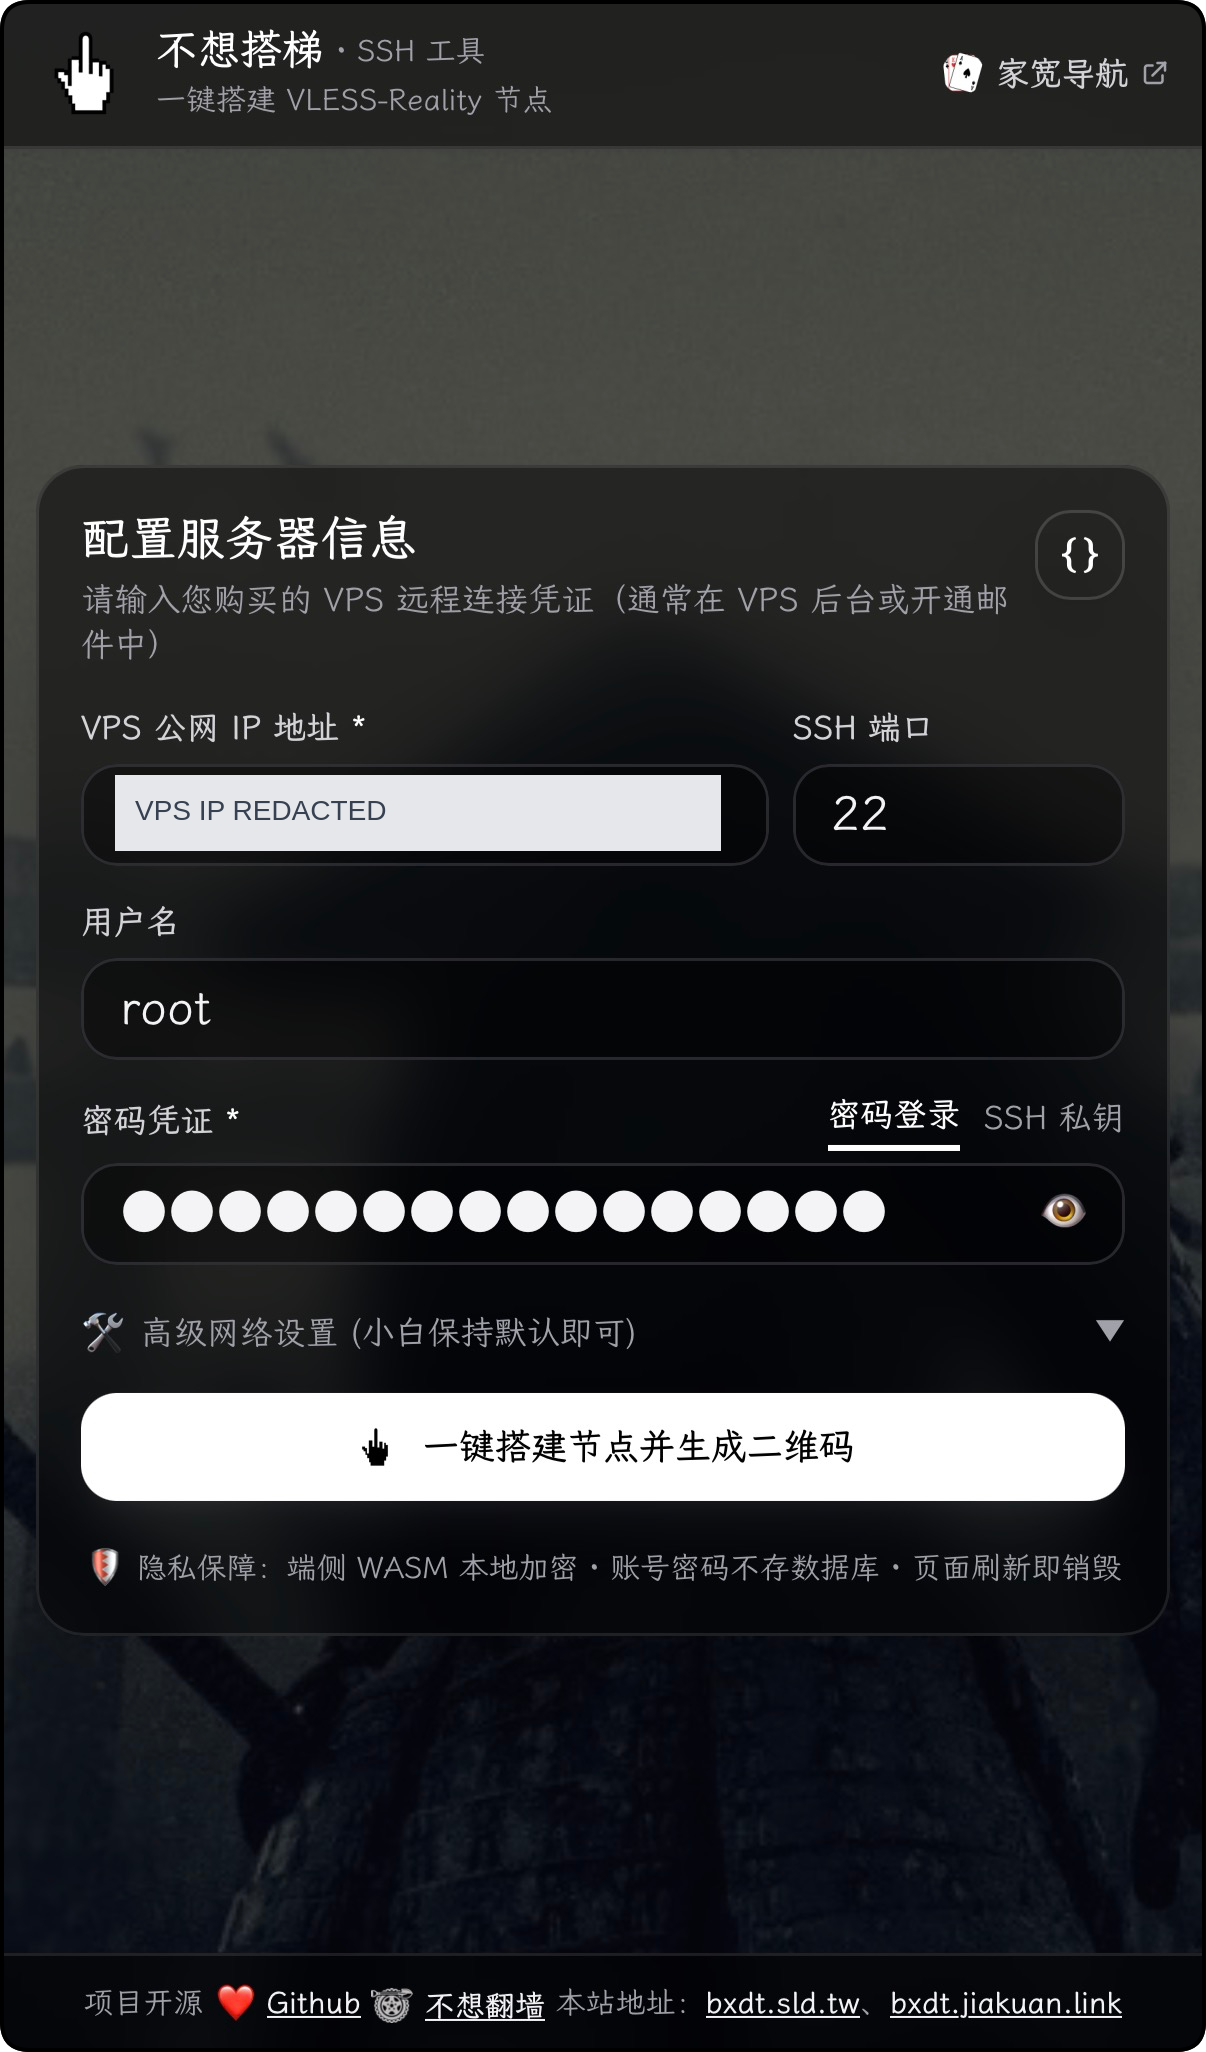
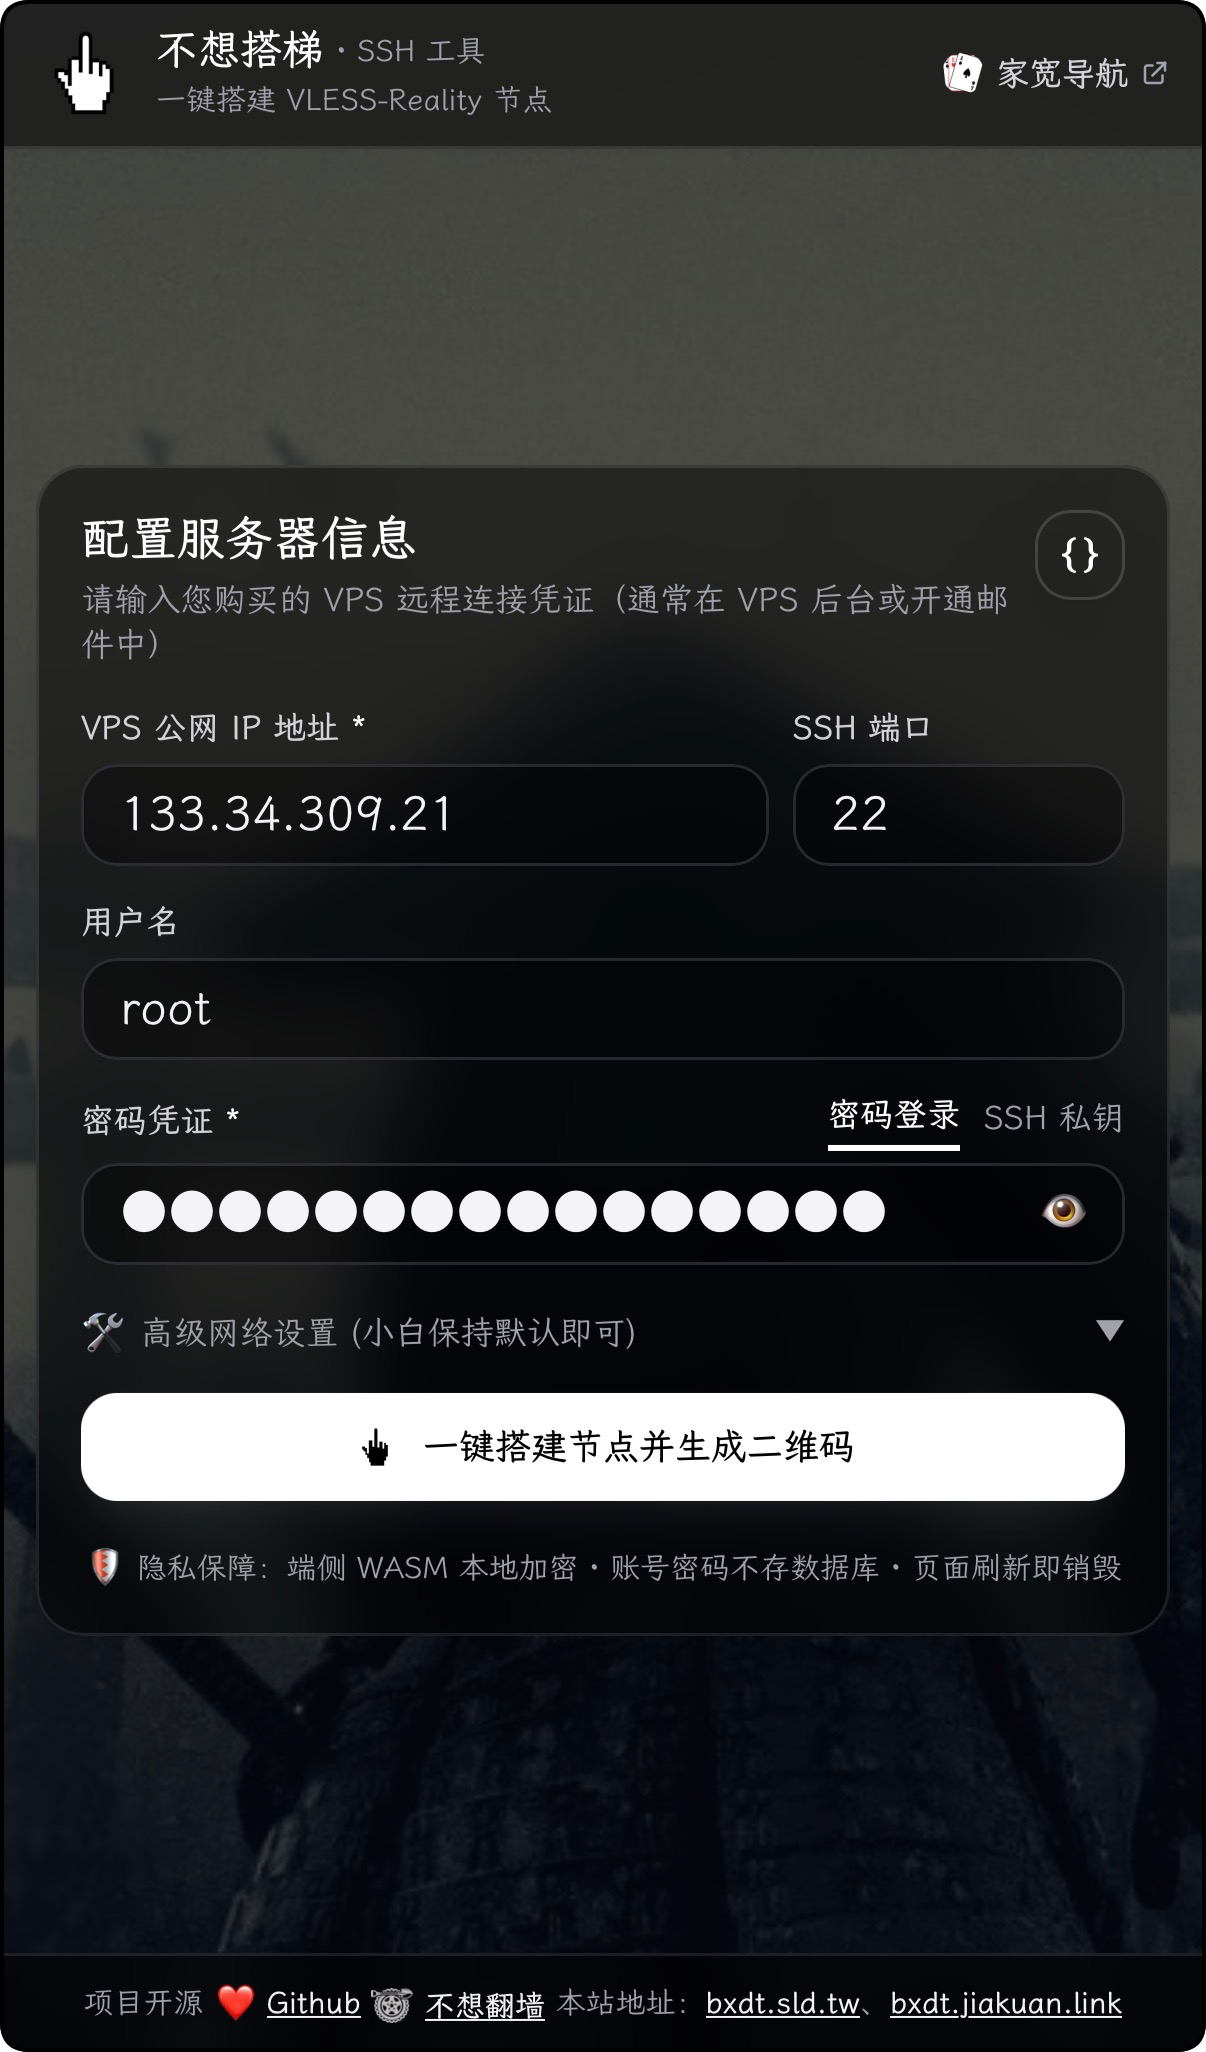
fix: 精简教程版本展示并补充 NAT VPS 配置说明

Changed region(s): [[0.092, 0.3743, 0.6136, 0.4366]]

diff --git a/src/components/TutorialDetailView.tsx b/src/components/TutorialDetailView.tsx
@@ -172,6 +172,8 @@ export const TutorialDetailView: React.FC<TutorialDetailViewProps> = ({
   onOpenCrowdsourceModal
 }) => {
   const [copiedSnippet, setCopiedSnippet] = useState<string | null>(null);
+  // 版本字段可包含渠道、核查日期等备注，页头仅展示首个版本号。
+  const displayVersion = tool.latestVersion.match(/\b[vV]?\d+(?:\.\d+)+(?:-[0-9A-Za-z]+(?:[.-][0-9A-Za-z]+)*)?(?:\+[0-9A-Za-z]+(?:[.-][0-9A-Za-z]+)*)?\b/)?.[0];
 
   const handleCopy = (text: string) => {
     navigator.clipboard.writeText(text);
@@ -199,11 +201,13 @@ export const TutorialDetailView: React.FC<TutorialDetailViewProps> = ({
 
         <div className="relative z-10 flex flex-col md:flex-row md:items-start justify-between gap-6">
           <div className="flex-1">
-            <div className="flex items-center gap-2 mb-2">
-              <span className="text-xs font-mono bg-paper-200 border border-pencil/30 px-2 py-0.5 rounded text-pencil-dark">
-                {tool.latestVersion}
-              </span>
-            </div>
+            {displayVersion && (
+              <div className="flex items-center gap-2 mb-2">
+                <span aria-label="软件版本" className="text-xs font-mono bg-paper-200 border border-pencil/30 px-2 py-0.5 rounded text-pencil-dark">
+                  {displayVersion}
+                </span>
+              </div>
+            )}
 
             <div className="flex items-center gap-3.5 mb-2">
               <div className="w-11 h-11 sm:w-13 sm:h-13 rounded-xl border-2 border-pencil bg-paper-100/90 flex items-center justify-center p-2 shadow-pencil shrink-0 group-hover:-rotate-3 transition-transform">

diff --git a/src/data/tutorials/linux/vps-nodes.ts b/src/data/tutorials/linux/vps-nodes.ts
@@ -38,7 +38,9 @@ export const vpsNodes: SoftwareTool = {
       title: '前往 Akile 选购 VPS',
     },
     prerequisites: [
-      '一台具有公网 IP 的 VPS，以及 SSH 端口、root 用户名和密码（或 SSH 密钥）。',
+      '服务器类型：建议使用独立公网 IP 的 VPS。NAT VPS 通常由多人共享公网 IPv4，仅分配部分端口，需先在服务商控制台配置端口转发，不能直接套用默认端口。准备好 SSH 登录地址、外部端口及 root 密码（或 SSH 密钥）。',
+      'NAT 端口映射：将分配到的外部端口转发至 VPS 内部服务端口；SSH 和节点端口需分别配置，VLESS-Reality 使用 TCP，Hysteria2 使用 UDP（先确认服务商支持 UDP 转发）。客户端填写共享公网 IP 或指向它的域名，以及映射后的外部端口；脚本生成的链接若使用内部端口，需修改后再导入。',
+      'NAT 证书限制：若无法映射证书验证所需的公网 80/443 端口，可在脚本支持时改用 DNS 验证申请 Let’s Encrypt 证书；不支持时建议使用独立公网 IP 的 VPS。',
       '打开 [不想搭梯](https://bxdt.sld.tw)，准备填写服务器信息；也可用本地 SSH 工具连接。',
       '教程二需自备域名：添加 A 记录指向 VPS 的 IPv4；使用 IPv6 时添加 AAAA 记录。仅开启 DNS 解析，不开启 CDN 代理，并等待解析生效。',
       '在云安全组与系统防火墙中放行 SSH 和节点实际使用的端口；Hysteria2 使用 UDP。申请证书时还需满足脚本所用验证方式的端口或 DNS 要求。',

diff --git a/src/data/tutorials/ios/shadowrocket.ts b/src/data/tutorials/ios/shadowrocket.ts
@@ -13,7 +13,7 @@ export const shadowrocket: SoftwareTool = {
   updatedAt: '2026-11-13',
   isOpenSource: false,
   license: '专有软件；未确认完整客户端开源许可',
-  price: '美国 App Store：US$2.99（2026-11-13；其他地区以购买页为准）',
+  price: '美国 App Store：US$2.99（2026-11-13）',
   releasedAt: '2015-04-14（美国 App Store 上架日期）',
   latestVersion: '2.2.93（美国商店 API；2026-10-29 发布）',
   updatePath: 'src/data/tutorials/ios/shadowrocket.ts',
